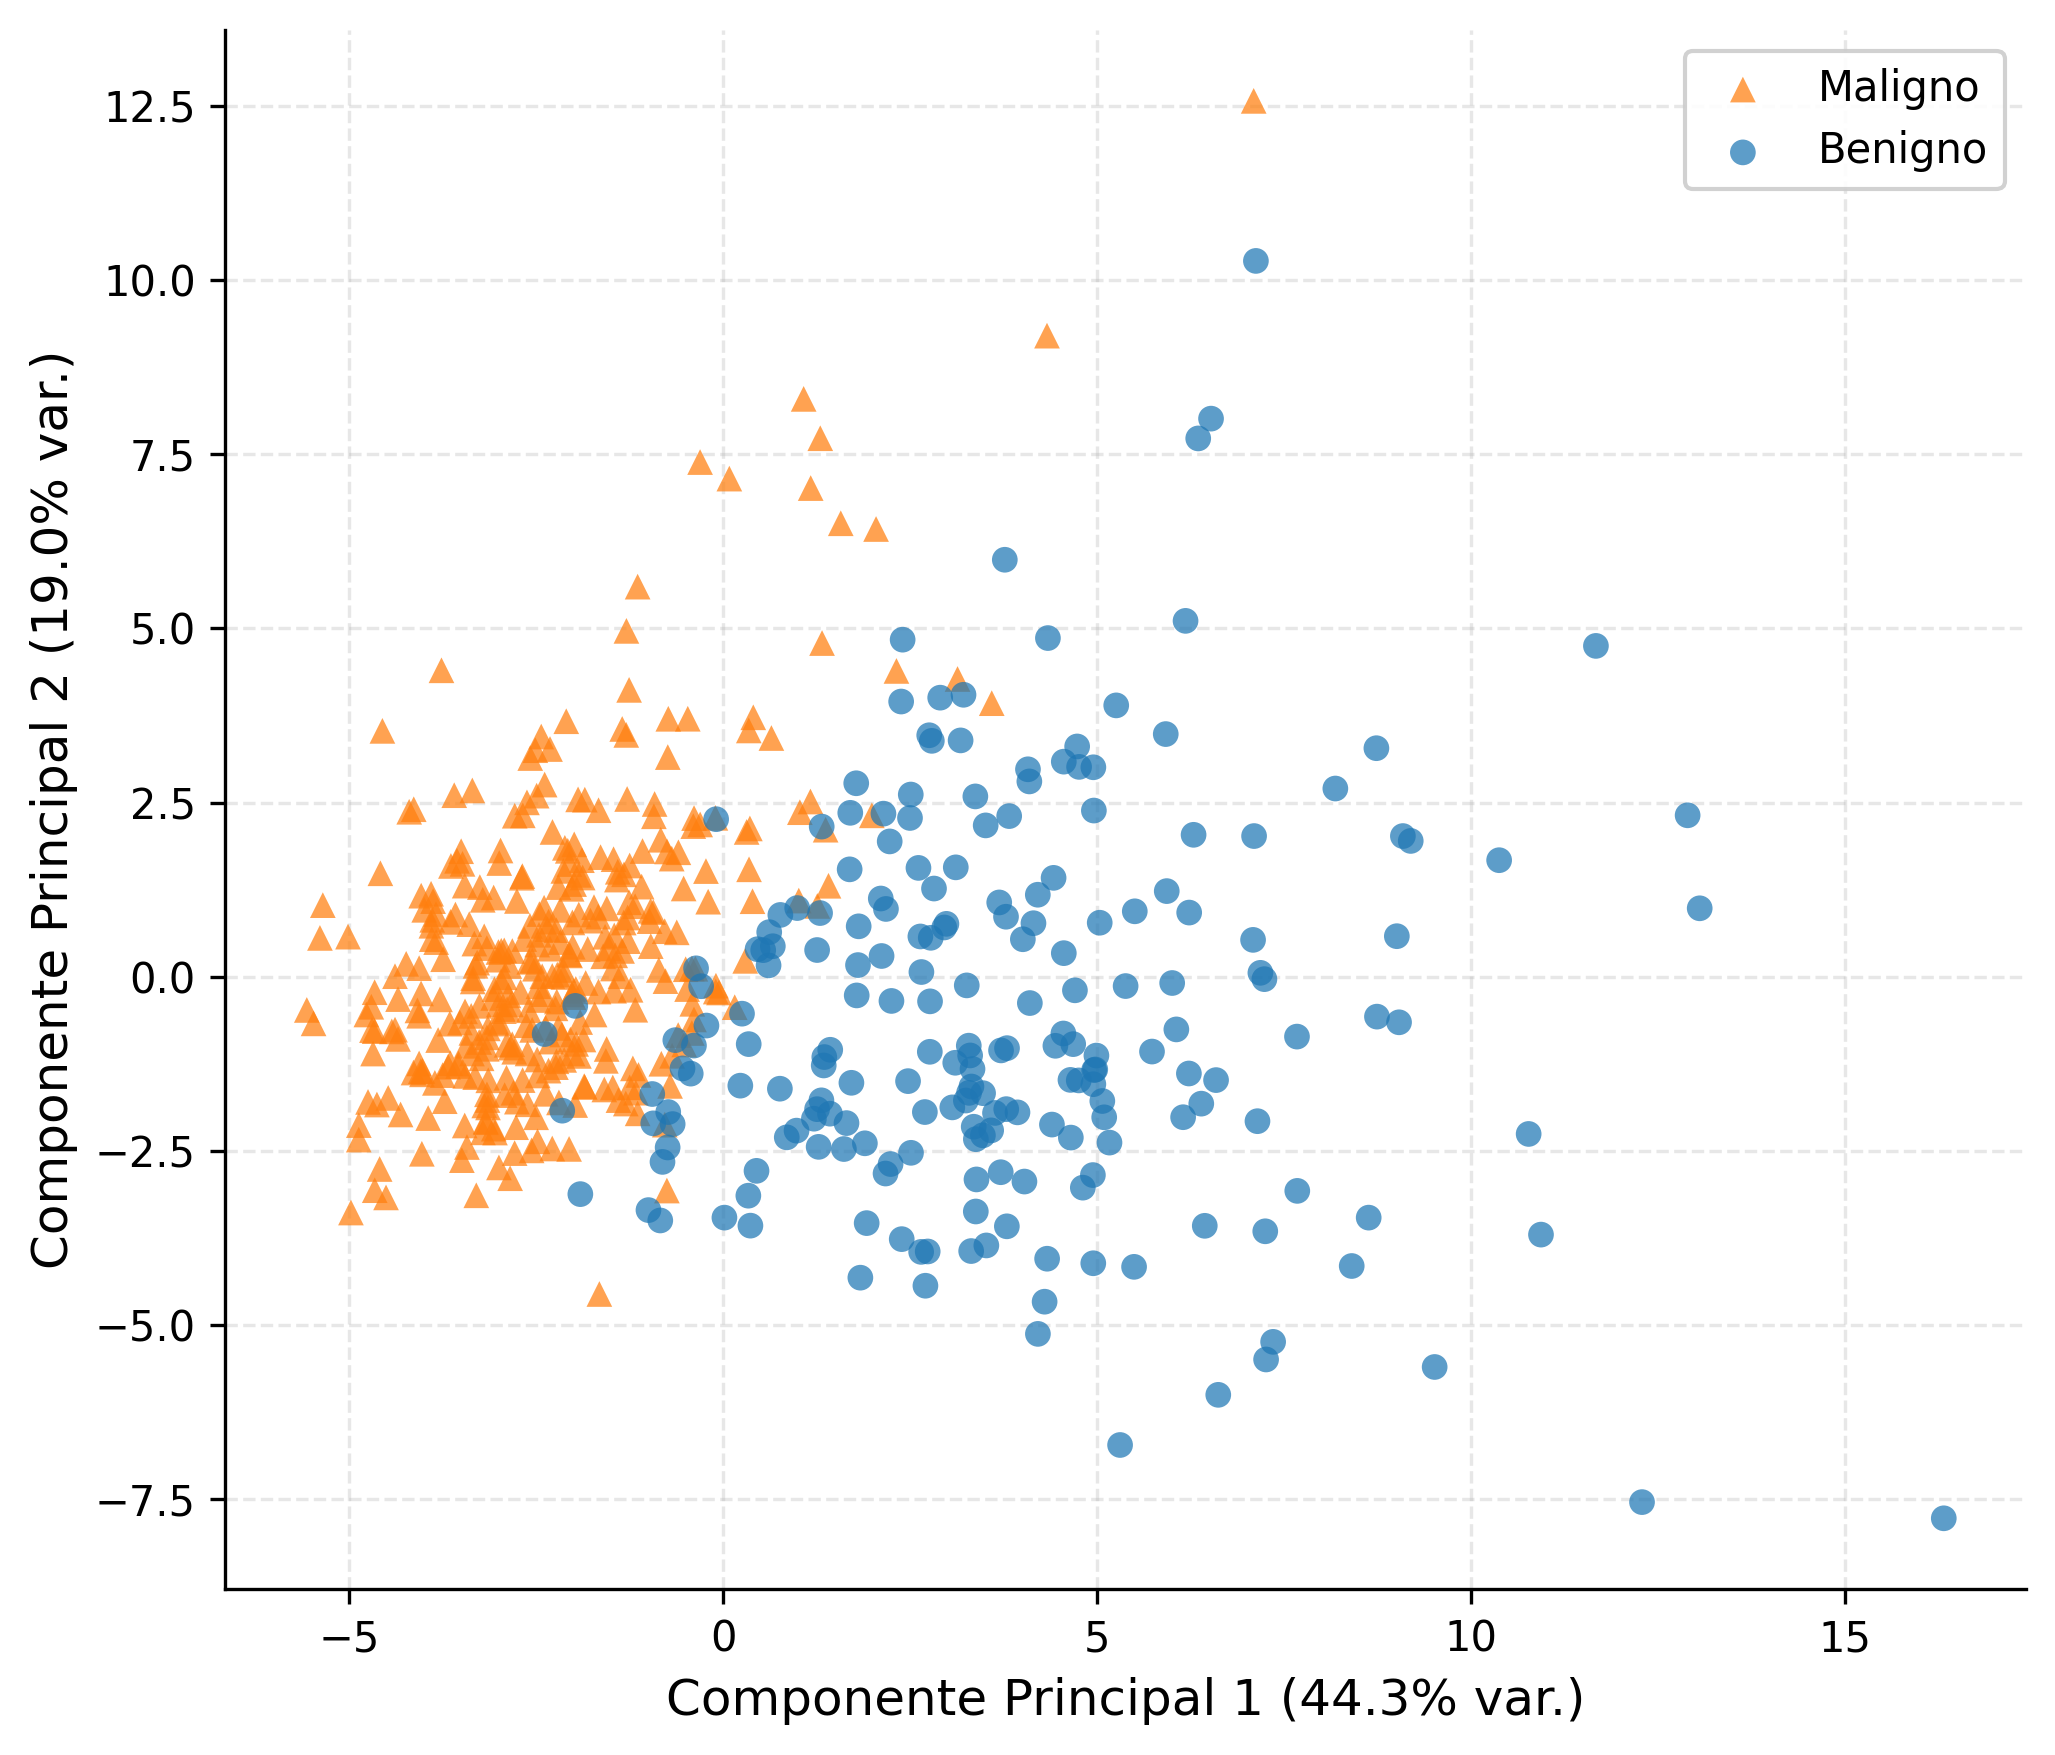
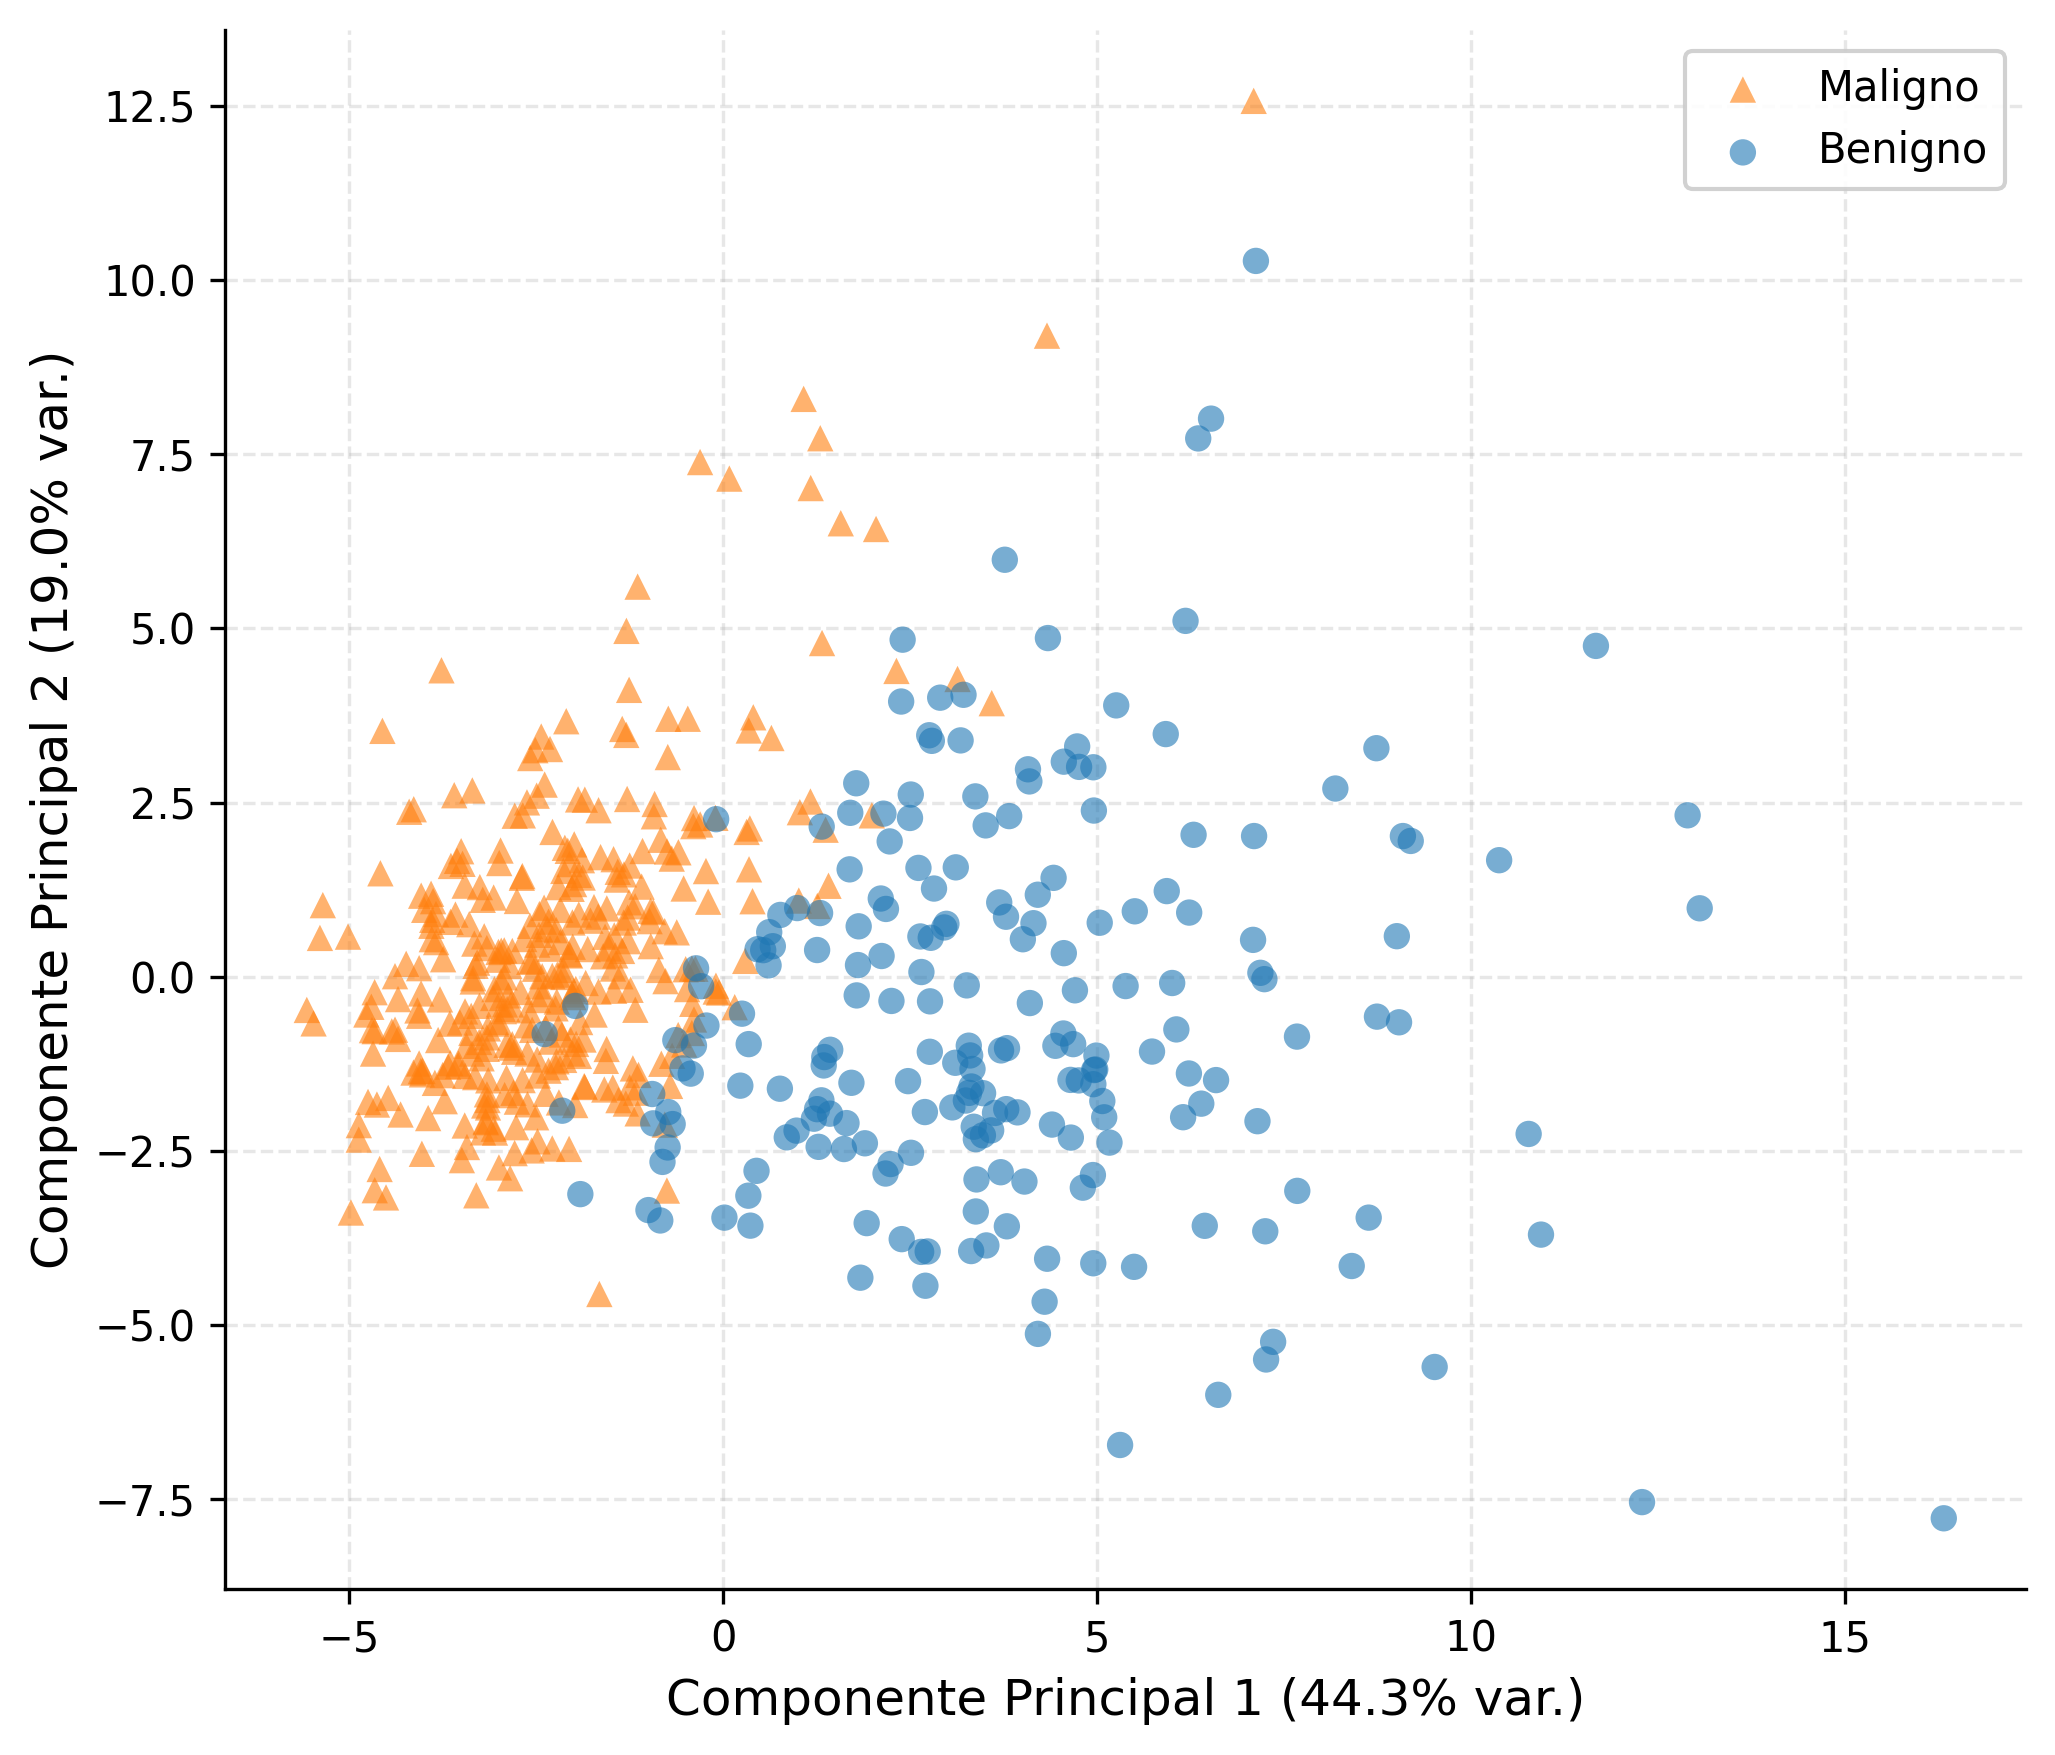
feat - Ajustando figuras de publicação do projeto de reconhecimento de padrões. As três figuras foram regeneradas com sucesso.

diff --git a/scripts/gerar_figuras.py b/scripts/gerar_figuras.py
@@ -127,8 +127,6 @@ ax.grid(axis="y", linestyle="--", alpha=0.45)
 
 # Linha divisória RF × SVM
 ax.axvline(3.5, color="#aaaaaa", linestyle=":", linewidth=1.2)
-ax.text(2.0, 0.997, "RF", ha="center", fontsize=9, color="#555555")
-ax.text(5.0, 0.997, "SVM", ha="center", fontsize=9, color="#555555")
 
 fig.tight_layout()
 fig.savefig(out("Fig1_boxplot.png"), dpi=DPI, bbox_inches="tight")
@@ -218,7 +216,7 @@ for label, color, marker, name in [
 ]:
     mask = y_bc == label
     ax.scatter(Z_pca2d[mask, 0], Z_pca2d[mask, 1],
-               c=color, marker=marker, s=38, alpha=0.72,
+               c=color, marker=marker, s=40, alpha=0.6,
                edgecolors="none", label=name, zorder=3 if label == 0 else 2)
 
 ax.set_xlabel(f"Componente Principal 1 ({var1:.1f}% var.)")
@@ -260,6 +258,29 @@ fig.tight_layout()
 fig.savefig(out("Fig5_ae3d.png"), dpi=DPI, bbox_inches="tight")
 plt.close(fig)
 print("  salva.")
+
+# 4 versões com ângulos diferentes para seleção editorial
+for v, azim in enumerate([30, 45, 60, 135], start=1):
+    fig_v = plt.figure(figsize=(8, 7))
+    fig_v.patch.set_facecolor("white")
+    ax_v = fig_v.add_subplot(111, projection="3d")
+    ax_v.set_facecolor("white")
+    for label, color, marker, name in [
+        (1, C_MAL, "^", "Maligno"),
+        (0, C_BEN, "o", "Benigno"),
+    ]:
+        mask = y_bc == label
+        ax_v.scatter(Z_ae[mask, 0], Z_ae[mask, 1], Z_ae[mask, 2],
+                     c=color, marker=marker, s=28, alpha=0.75, label=name)
+    ax_v.set_xlabel("Dim. Latente 1", labelpad=8, fontsize=10)
+    ax_v.set_ylabel("Dim. Latente 2", labelpad=8, fontsize=10)
+    ax_v.set_zlabel("Dim. Latente 3", labelpad=8, fontsize=10)
+    ax_v.legend(loc="upper left", framealpha=0.9, fontsize=9)
+    ax_v.view_init(elev=20, azim=azim)
+    fig_v.tight_layout()
+    fig_v.savefig(out(f"Fig5_ae3d_v{v}.png"), dpi=DPI, bbox_inches="tight")
+    plt.close(fig_v)
+    print(f"  Fig5_ae3d_v{v}.png  (azim={azim}) salva.")
 
 # ===========================================================================
 # Fig 6 — Curva de treinamento do Autoencoder

diff --git a/scripts/_busca_docx.py b/scripts/_busca_docx.py
@@ -1,0 +1,27 @@
+import zipfile, re
+
+files = [
+    "D:/UPE/Reconhecimento de padrões/Descrição de Projeto RECPAD/Projeto_RECPAD.docx",
+    "D:/UPE/Reconhecimento de padrões/DOCUMENTO TÉCNICO RP.docx",
+    "D:/UPE/Reconhecimento de padrões/Guia Completo.docx",
+]
+
+for fpath in files:
+    try:
+        with zipfile.ZipFile(fpath) as z:
+            with z.open("word/document.xml") as f:
+                content = f.read().decode("utf-8")
+        text = re.sub(r"<[^>]+>", "", content)
+        hits = [
+            (i, line)
+            for i, line in enumerate(text.splitlines(), 1)
+            if "0,35" in line or "0.35" in line or "loss" in line.lower() or "Loss" in line
+        ]
+        print(f"=== {fpath} ===")
+        if hits:
+            for ln, line in hits:
+                print(f"  linha {ln}: {line.strip()[:150]}")
+        else:
+            print("  (sem ocorrências)")
+    except Exception as e:
+        print(f"  ERRO: {e}")
